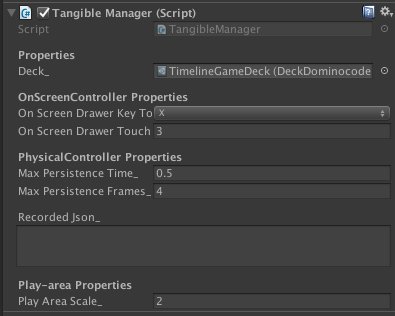
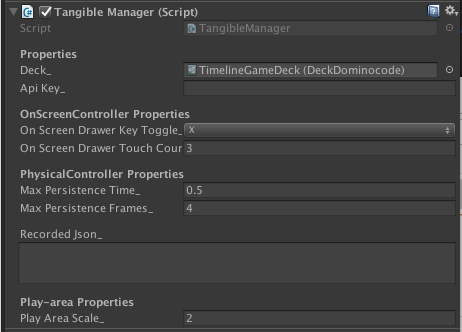
fixing some broken image links

Changed region(s): [[0.0, 0.1424, 1.0, 1.0], [0.0, 0.0, 1.0, 0.1139]]

diff --git a/README.md b/README.md
@@ -205,7 +205,7 @@ An example of a game which only registers with `OnObjectEnter`. Once a letter ha
 ## 5. Timeline Game
 `Examples/TimelineGame/TimelineScene.unity`
 
-An example game using domino codes. It uses a custom deck (which ignores domino code values that are not used by the game). To play this on device, print out a set of domino codes from `dominocodes.pdf` in the `sdk-readme` directory of the SDK.
+An example game using domino codes. It uses a custom deck (which ignores domino code values that are not used by the game). To play this on device, print out a set of domino codes from `dominocodes.pdf` in the `Readme` directory of the SDK.
 
 In order to make your own custom decks, see the [Customizing Deck](#customizing-decks) section.
 
@@ -266,7 +266,9 @@ namespace Tangible.SDK.Vision {
 }
 ```
 
-You can set it in the inspector in your `TangibleManager` (see below). Values set in the inspector will take precedence over values set in `ApiKey.cs`.
+You can set it in the inspector in your `TangibleManager`. Values set in the inspector will take precedence over values set in `ApiKey.cs`.
+
+![tangible_manager_apikey](Images/TangibleManager/apikey.png)
 
 
 ## TangibleManager
